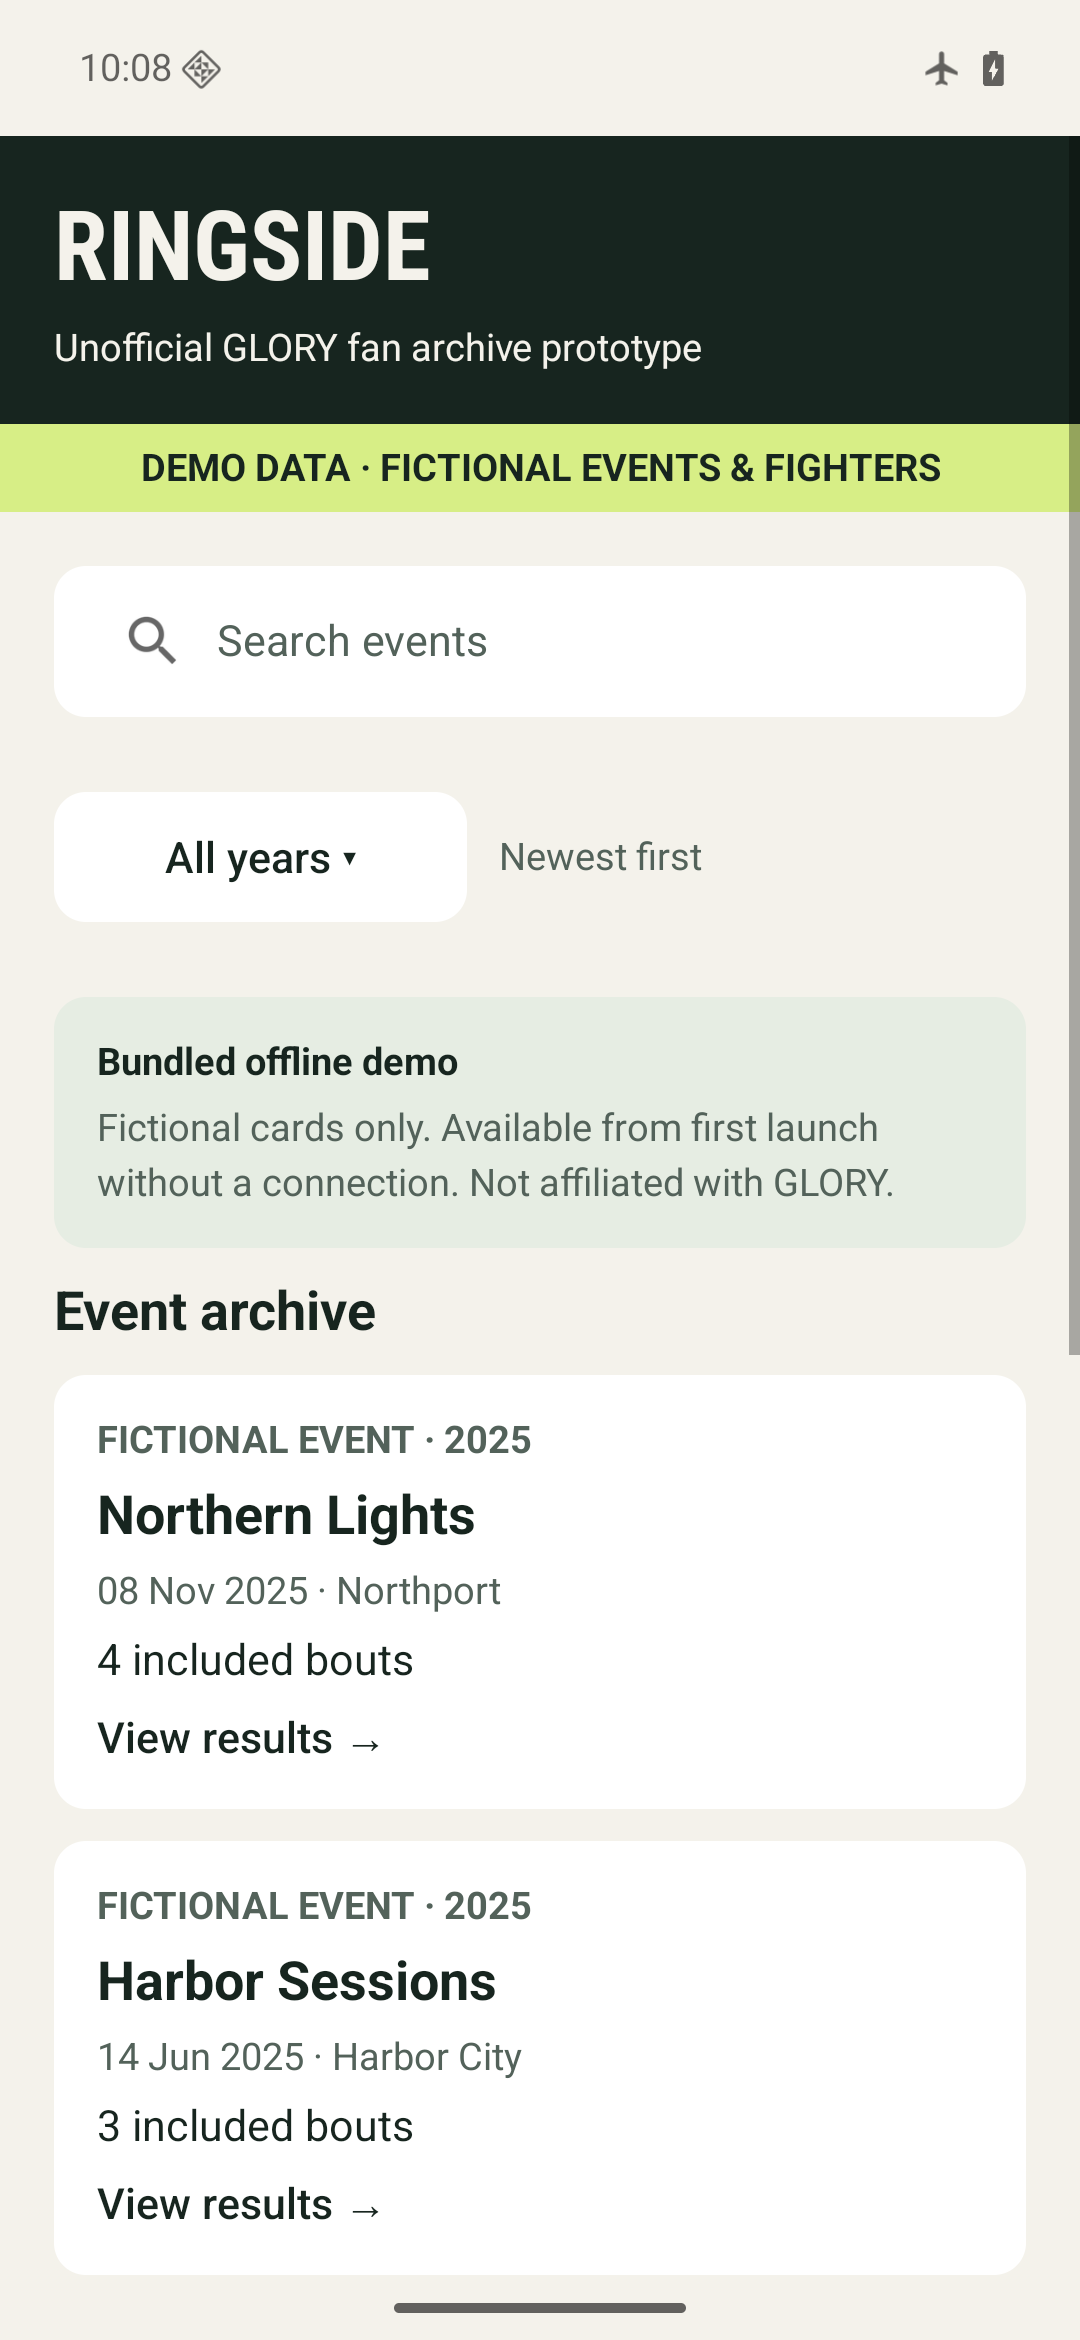
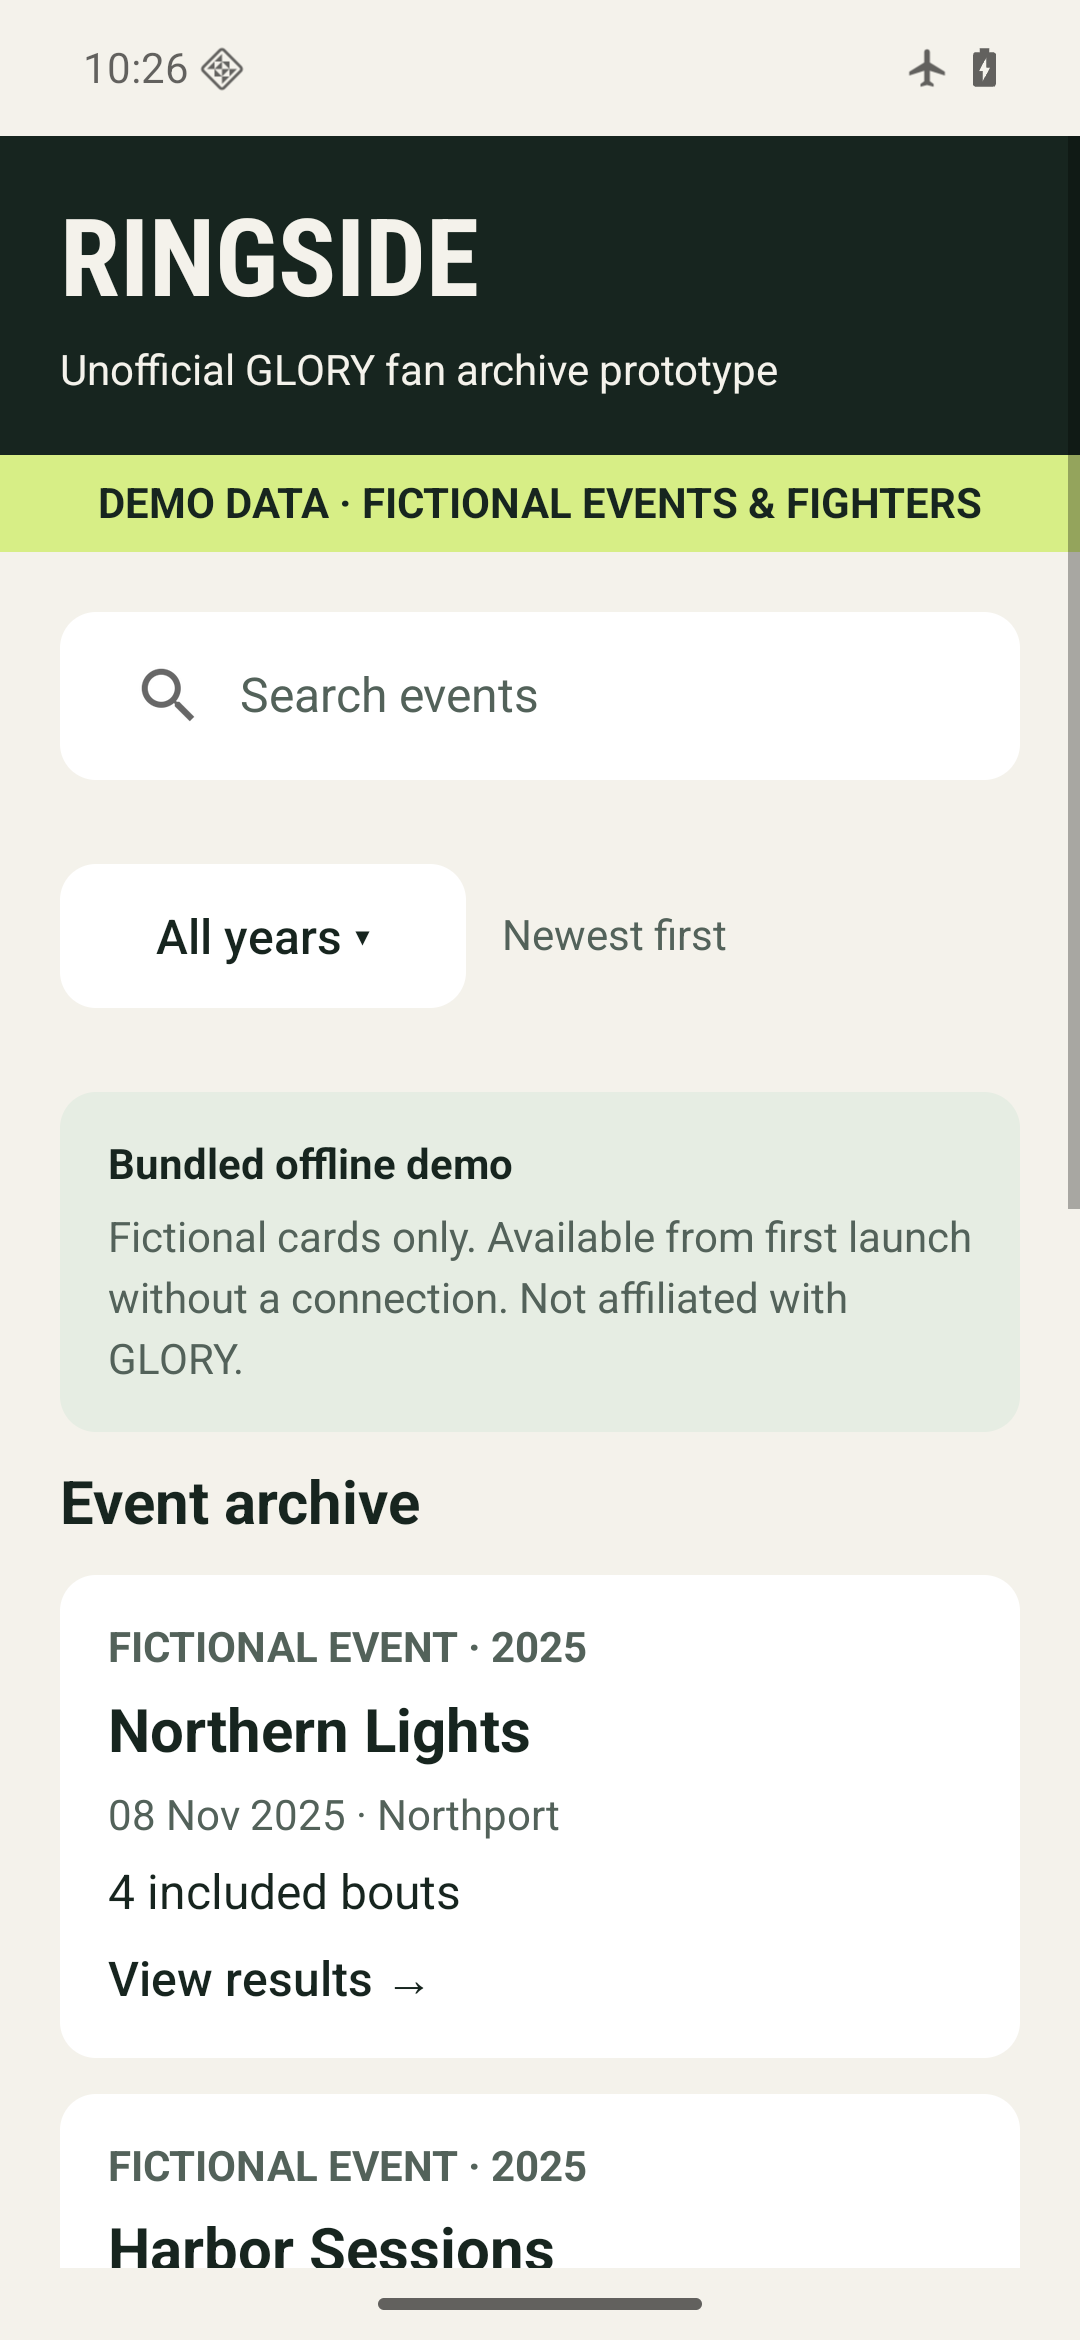
Record review fixes and 360dp large-text verification

diff --git a/docs/review-follow-up.md b/docs/review-follow-up.md
@@ -1,0 +1,81 @@
+# Review fixes and verification follow-up
+
+Current app code: `a16dfa8d3dd20bbd1757bded5567525dac058776` (UI branch integrated
+foundation fix `522753d725ab226bb900ba65f80455441b884814`). Evidence-only changes
+following this point do not alter the tested app source. Both PRs remain drafts;
+default branch and Play are unchanged.
+
+| Review finding | Fix and regression evidence |
+| --- | --- |
+| Partial method/round metadata discarded | Shared event/fighter formatter keeps each known field and labels only its missing counterpart. Unknown result also preserves known metadata without assigning a winner. Android tests cover all four method/round combinations on both screen contexts. |
+| Nullable method history refused | Java model, Android reader, Python and JSON Schema preserve literal null→KO and KO→null, including chains. Null names and broken chains remain refused. No fabricated string replaces unknown data. |
+| Correction/tournament identity collision accepted only in Python | Collision check runs after corrections add their IDs, matching Java. The previous validator was executed against the adversarial case and accepted it; the corrected one refuses it. Python/JVM/actual Android-loader regressions cover the collision. |
+| Grouped accessibility label omitted visible fictional eyebrow | Event/appearance nodes now include the fictional scope; fighter nodes retain outcome/action and explicitly disclose demonstration data. Actual native nodes verify role, clickability and labels; this is not manual TalkBack narration evidence. |
+
+## Test delta and coverage
+
+| Layer | Prior | Current |
+| --- | --- | --- |
+| Python standard-library data/negative contracts |17 PASS |**22 PASS** |
+| JVM production-domain/inset tests |19 PASS |**25 PASS**, zero failures/errors/skips |
+| Actual API36 ARM64 device cases |18 PASS at400dp |**29 PASS at360dp**:10 Android-reader,12 original UI,7 new accessibility/navigation/partial-detail cases |
+| Unsigned APK/AAB, lint, test compilation |PASS |PASS; no SDK/dependency download or signing in this gate |
+| Lint |0 errors/4 warnings |**0 errors/3 warnings**, without suppression or baseline |
+
+The full Draft2020-12 schema validator already available locally also accepts
+both nullable-method transitions and refuses null names. The semantic Python gate
+handles cross-entity identity/reference rules beyond JSON Schema. JVM tests run
+the actual Java semantic model. Android's functional org.json loader runs in the
+10 device cases; an equivalent JVM JSON implementation is not cached, so no new
+JSON library or heavyweight test stack was installed merely to emulate it.
+
+New cases exercise event and fighter200% text in portrait/landscape, wrapping/no
+ellipsis, measured text fit,48dp controls, reachable footer/correction actions,
+detail recreation/native back context, missing fighter identity, native query
+clear preserving year, and actual accessibility-node semantics. Layout checks
+cover the whole measured content; screenshots are viewport captures, not claims
+that all long content fits onscreen at once. No image comparison/golden pass.
+
+Installed image inventory in the configured SDK contains API36 only. API24/API29
+runtime coverage is **NOT RUN**, with no SDK download/install attempted. Manual
+TalkBack narration/focus traversal and physical-phone acceptance remain **NOT RUN**.
+Native-node checks do not substitute for them. No accessibility service/access
+grant was enabled. Name/data gates and protected Play-installed acceptance remain.
+
+Fresh run `run-dd1fb5ec145f` captured13 requested PNGs. Font scale was restored to1.0,
+density override reset, and the task emulator/dedicated ADB server shut down.
+The initial prototype fresh install was airplane mode; this current verification
+updated the same owned AVD, still in airplane mode. No phone/account/live data used.
+
+## Lint assessment
+
+- Test-only JUnit4.12 had a documented TemporaryFolder information-disclosure issue;
+  current tests use neither that API nor secret temporary files. Cached4.13.2 is
+  now pinned, removing the known tooling issue without changing the production
+  dependency graph. [Official JUnit advisory](https://github.com/junit-team/junit4/security/advisories/GHSA-269g-pwp5-87pp).
+- AppCompat23.1.1 remains maintenance/compatibility debt. The warning alone is not
+  proof of a specific exploit; no full vulnerability certification is asserted.
+  Android recommends AndroidX beyond the final support-library feature release.
+  A bounded future migration and missing older-device coverage remain work; no
+  blind UI-library/SDK leap was made here. [Official support revisions](https://developer.android.com/topic/libraries/support-library/revisions).
+- MergeRootFrame/UselessParent suggestions concern the intentional inset wrapper.
+  Its removal previously failed four real scroll-reachability checks. It stays
+  without suppressions; those regressions now pass. No root background overdraw
+  is introduced to silence or game lint.
+
+## Actual current screenshots
+
+- [Archive](screenshots/archive.png), [event](screenshots/event.png), [fighter](screenshots/fighter.png)
+- [Missing result](screenshots/missing-result.png), [correction history](screenshots/correction.png), [search/year](screenshots/search-year.png), [no results](screenshots/no-results.png)
+- [200% event portrait](screenshots/large-event-portrait.png), [200% fighter portrait](screenshots/large-fighter-portrait.png)
+- [200% event landscape footer](screenshots/large-event-landscape.png), [200% fighter landscape footer](screenshots/large-fighter-landscape.png)
+- [200% archive portrait](screenshots/large-font-portrait.png), [200% archive landscape](screenshots/large-font-landscape.png)
+
+Unsigned bundle:898936bytes, SHA-256
[1 lines of base64/hex data omitted]
+Cached official bundletool validation and package inspection pass: existing package,
+min24/target36, nondebuggable, no permissions, only launcher exported, intentional
+synthetic asset present and test/private markers absent. This is not upload-ready:
+versionCode1 is consumed, independent review is pending, and signing/Play-installed
+acceptance requires separate current release evidence. No signed artifact or key
+is committed; [curated machine-readable results](prototype-results.json).

diff --git a/docs/prototype-verification.md b/docs/prototype-verification.md
@@ -1,5 +1,9 @@
 # Prototype implementation and evidence
 
+Current results and review fixes: [verification follow-up](review-follow-up.md).
+The original18-case milestone below is retained as historical evidence; current
+results are22 Python,25 JVM and29 device cases.
+
 Design reference: [editable Figma frames](https://www.figma.com/design/Dnm0hwiCkUIi4lNqC9oNKg).
 Read-only design-to-code inspection used archive3:43, event3:44, fighter3:45,
 no-results3:47, correction3:50, missing-result3:51, tokens6:54 and large-text11:105.
